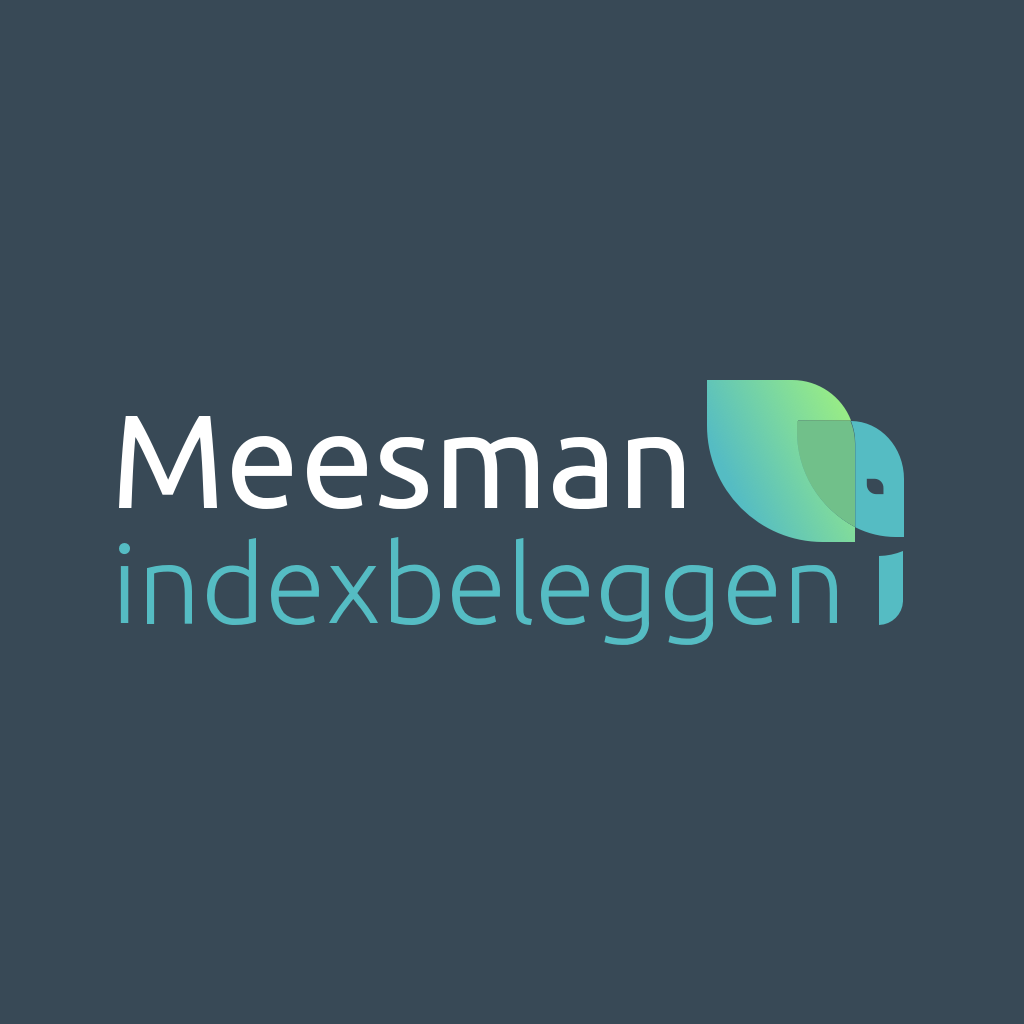
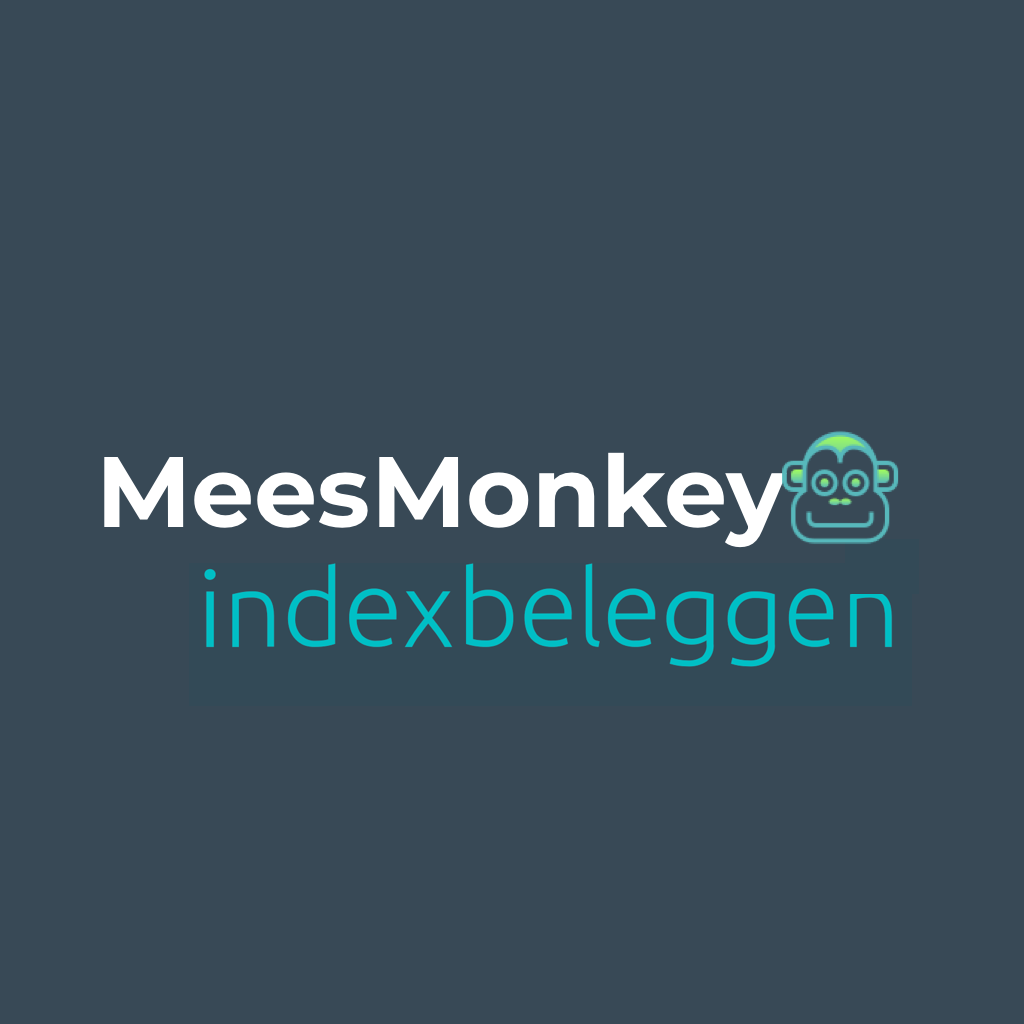
reframed to meesmonkey

Changed region(s): [[0.0938, 0.3438, 0.9062, 0.6562]]

diff --git a/components/SectionHeaderText.js b/components/SectionHeaderText.js
@@ -5,7 +5,7 @@ const SectionHeaderText = ({ text }) => {
   return (
     <View style={styles.container}>
       <View style={styles.inlineContainer}>
-        <Image source={require('../assets/elephant.png')} style={styles.inlineImage} />
+        <Image source={require('../assets/monkey.png')} style={styles.inlineImage} />
         <Text style={styles.text}>
           {text} 
         </Text>

diff --git a/README.md b/README.md
@@ -1,5 +1,5 @@
 
-# Unofficial Meesman App
+# Unofficial MeesMonkey App (As wrapper around Meesman)
 <img src="https://github.com/two-trick-pony-NL/MeesmanUnofficialApp/assets/71013416/8fde4da7-5b18-4cfe-aadd-440d4f85ba80" height="400">
 <img src="https://github.com/two-trick-pony-NL/MeesmanUnofficialApp/assets/71013416/5c3f5419-1804-49b0-a543-ec3c8f03596f" height="400">
 <img src="https://github.com/two-trick-pony-NL/MeesmanUnofficialApp/assets/71013416/0b1d5fb8-108e-4d5a-8c61-ae43b43d55dc" height="400">
